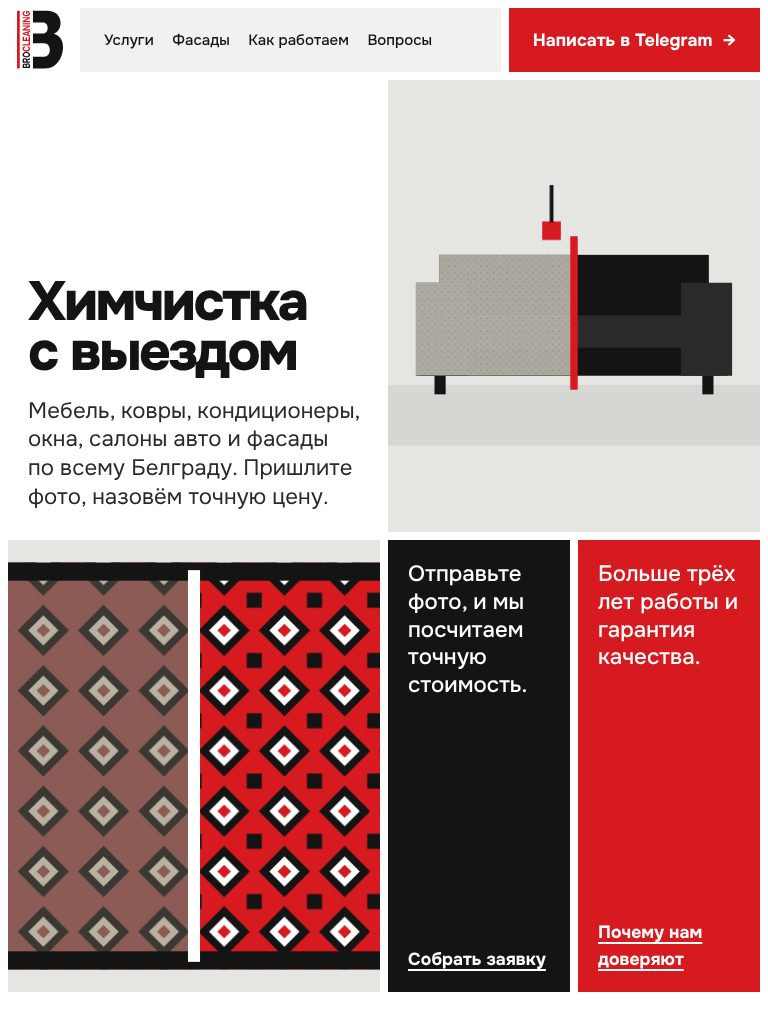
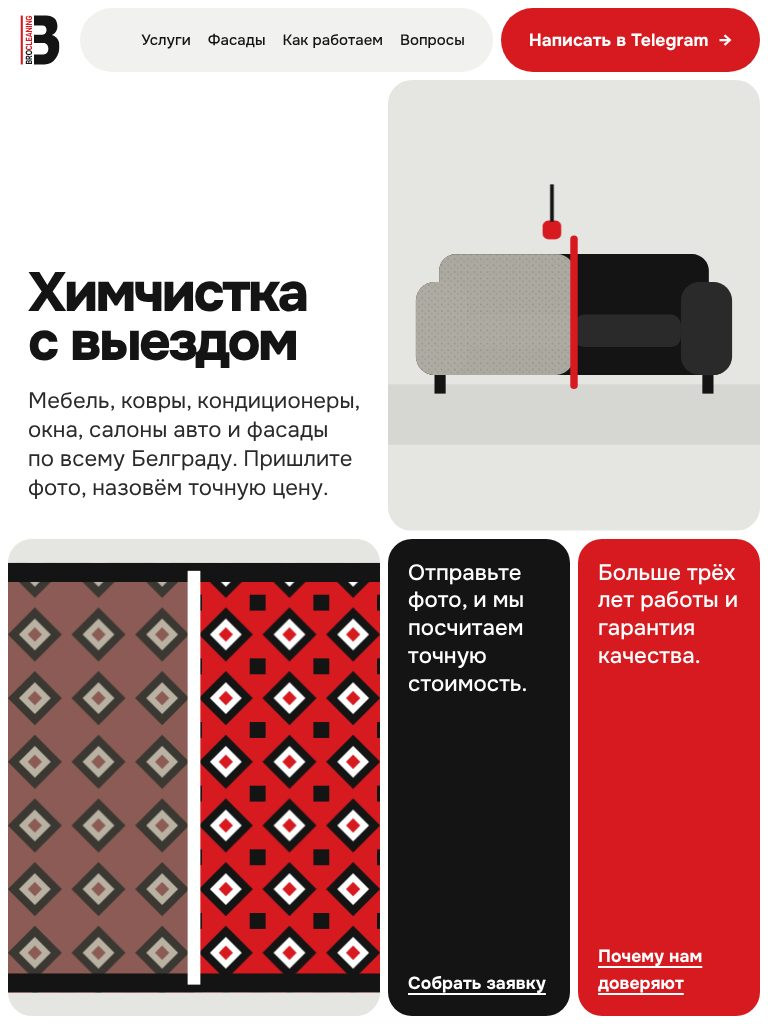
BroCleaning: stop hero clipping on short windows, round the design
The hero board no longer ties its rows to the window height, so the
headline fits on any screen; the nav sits at the right edge. Tiles,
sections and drawings get rounded corners and buttons become pills.

Claude-Session: https://claude.ai/code/session_01UWZxjZDZsRNAHBMSR73c6z

diff --git a/sites/brocleaning/index.html b/sites/brocleaning/index.html
@@ -34,6 +34,8 @@
   --axis:42vw;
   --section:clamp(96px,12vw,200px);
   --ease:cubic-bezier(.2,.7,.1,1);
+  --r:24px;
+  --r-s:14px;
 }
 *,*::before,*::after{box-sizing:border-box}
 html{-webkit-text-size-adjust:100%;scroll-behavior:smooth}
@@ -49,7 +51,7 @@ button{font:inherit;color:inherit}
 .skip:focus{left:var(--m);top:var(--m);z-index:50;background:var(--ink);color:#fff;padding:12px 16px}
 
 /* ---------- buttons: one shape, square ---------- */
-.btn{display:inline-flex;align-items:center;justify-content:center;gap:.6em;min-height:56px;padding:0 24px;border:0;border-radius:0;background:var(--red);color:var(--red-ink);font-weight:700;font-size:var(--step-body);text-decoration:none;cursor:pointer;transition:transform .18s var(--ease),background-color .18s}
+.btn{display:inline-flex;align-items:center;justify-content:center;gap:.6em;min-height:56px;padding:0 24px;border:0;border-radius:999px;background:var(--red);color:var(--red-ink);font-weight:700;font-size:var(--step-body);text-decoration:none;cursor:pointer;transition:transform .18s var(--ease),background-color .18s}
 .btn:hover{background:#b8141a}
 .btn:active{transform:scale(.97)}
 .btn--ink{background:var(--ink);color:#fff}
@@ -61,27 +63,29 @@ button{font:inherit;color:inherit}
 
 /* ---------- axis heading: the red bar of the logo ---------- */
 .axis-head{position:relative;margin-left:var(--axis);padding-left:28px;font-size:var(--step-head);font-weight:800;line-height:1;letter-spacing:-.03em;max-width:15ch}
-.axis-head::before{content:"";position:absolute;left:0;top:.08em;bottom:.04em;width:10px;background:var(--red);transform-origin:top;transition:transform .9s var(--ease)}
+.axis-head::before{content:"";position:absolute;left:0;top:.08em;bottom:.04em;width:10px;border-radius:5px;background:var(--red);transform-origin:top;transition:transform .9s var(--ease)}
 .axis-head .soft{color:var(--muted)}
 
 /* =============== HERO BOARD =============== */
-.board{display:grid;gap:var(--gap);padding:var(--gap);height:100svh;min-height:640px;max-height:1000px;grid-template-rows:64px 1fr 1fr;grid-template-columns:1fr 1fr}
+.board{display:grid;gap:var(--gap);padding:var(--gap);min-height:100svh;grid-template-rows:64px auto minmax(280px,1fr);grid-template-columns:1fr 1fr}
 .bar{grid-column:1/-1;display:grid;grid-template-columns:64px 1fr auto;gap:var(--gap)}
-.tile{position:relative;overflow:hidden;background:var(--tone-1)}
+.tile{position:relative;overflow:hidden;background:var(--tone-1);border-radius:var(--r)}
 .tile--ink{background:var(--ink);color:var(--on-ink)}
 .tile--red{background:var(--red);color:#fff}
 .logo-tile{display:grid;place-items:center;background:var(--paper);outline:0}
-.logo-tile svg{width:46px;height:auto}
-.nav{display:flex;align-items:center;gap:clamp(16px,2.4vw,40px);padding:0 24px 0 calc(50vw - 64px - 2*var(--gap) + clamp(20px,2.4vw,36px))}
+.logo-tile svg{width:46px;height:auto;max-height:52px}
+.nav{display:flex;align-items:center;justify-content:flex-end;gap:clamp(16px,2.2vw,36px);padding:0 28px}
 .nav a{white-space:nowrap;font-weight:500;text-decoration:none;font-size:var(--step-small);position:relative;padding:6px 0}
 .nav a::after{content:"";position:absolute;left:0;right:0;bottom:0;height:2px;background:var(--red);transform:scaleX(0);transform-origin:left;transition:transform .25s var(--ease)}
 .nav a:hover::after{transform:scaleX(1)}
-.bar .btn{min-height:64px}
-.name-tile{display:flex;flex-direction:column;justify-content:flex-end;padding:clamp(20px,2.4vw,36px);background:var(--paper);gap:20px}
-.name-tile h1{font-size:var(--step-display);font-weight:800;line-height:.9;letter-spacing:-.045em}
+.bar .btn{min-height:64px;padding:0 28px}
+.bar .tile{border-radius:999px}
+.logo-tile{border-radius:var(--r-s)!important}
+.name-tile{display:flex;flex-direction:column;justify-content:flex-end;padding:clamp(28px,3vw,48px) clamp(20px,2.4vw,36px);background:var(--paper);gap:20px;overflow:visible;min-height:min(44svh,460px)}
+.name-tile h1{font-size:min(var(--step-display),14svh);font-weight:800;line-height:.9;letter-spacing:-.045em}
 .name-tile p{font-size:var(--step-lead);line-height:1.3;max-width:30ch;color:var(--ink-2)}
 .pic{width:100%;height:100%}
-.pic svg{width:100%;height:100%}
+.pic svg{position:absolute;inset:0;width:100%;height:100%}
 .split{display:grid;grid-template-columns:1fr 1fr;gap:var(--gap)}
 .split .tile{padding:clamp(20px,2.2vw,32px);display:flex;flex-direction:column;justify-content:space-between;gap:16px}
 .split .tile p{font-size:var(--step-lead);line-height:1.25;font-weight:500;max-width:18ch}
@@ -105,7 +109,7 @@ button{font:inherit;color:inherit}
 .services-intro{margin:28px 0 0 calc(var(--axis) - var(--m) + 28px);max-width:44ch;color:var(--ink-2)}
 .services-body{display:grid;grid-template-columns:200px 1fr;gap:40px;margin-top:56px}
 .tabs{display:flex;flex-direction:column;gap:6px;position:sticky;top:16px;align-self:start}
-.tab{display:flex;flex-direction:column;justify-content:center;min-height:64px;padding:10px 16px;background:var(--tone-1);text-decoration:none;border:0;text-align:left;cursor:pointer;transition:background-color .18s,transform .18s var(--ease)}
+.tab{border-radius:var(--r-s);display:flex;flex-direction:column;justify-content:center;min-height:64px;padding:10px 16px;background:var(--tone-1);text-decoration:none;border:0;text-align:left;cursor:pointer;transition:background-color .18s,transform .18s var(--ease)}
 .tab:hover{background:var(--tone-2)}
 .tab:active{transform:scale(.98)}
 .tab b{font-size:var(--step-small);font-weight:700;line-height:1.2}
@@ -120,11 +124,11 @@ button{font:inherit;color:inherit}
 .panel-title{font-size:var(--step-lead);font-weight:700;margin:0 0 12px;line-height:1.2}
 .js .panel-title{position:absolute;left:-9999px}
 .js .panel[hidden]{display:none}
-.band{display:grid;grid-template-columns:minmax(150px,26%) 1fr auto;align-items:center;gap:24px;min-height:84px;padding:16px 16px 16px 24px;background:var(--tone-1);transition:background-color .2s}
+.band{border-radius:var(--r-s);display:grid;grid-template-columns:minmax(150px,26%) 1fr auto;align-items:center;gap:24px;min-height:84px;padding:16px 16px 16px 24px;background:var(--tone-1);transition:background-color .2s}
 .band:nth-child(even of .band){background:var(--tone-2)}
 .band h4{margin:0;font-size:var(--step-body);font-weight:700;line-height:1.25}
 .band p{font-size:var(--step-body);line-height:1.45;color:var(--ink-2);max-width:56ch}
-.pick{display:inline-flex;align-items:center;justify-content:center;min-height:48px;min-width:150px;padding:0 18px;border:0;background:var(--paper);font-weight:700;font-size:var(--step-small);cursor:pointer;transition:background-color .18s,color .18s,transform .15s var(--ease)}
+.pick{border-radius:999px;display:inline-flex;align-items:center;justify-content:center;min-height:48px;min-width:150px;padding:0 18px;border:0;background:var(--paper);font-weight:700;font-size:var(--step-small);cursor:pointer;transition:background-color .18s,color .18s,transform .15s var(--ease)}
 .pick:hover{background:var(--ink);color:#fff}
 .pick:active{transform:scale(.96)}
 .band.is-picked{background:var(--ink);color:#fff}
@@ -134,11 +138,11 @@ button{font:inherit;color:inherit}
 .js .nojs-hide{display:inline-flex}
 
 /* request composer (the live thing) */
-.composer{margin-top:var(--gap);display:grid;grid-template-columns:200px 1fr;gap:40px;background:var(--ink);color:#fff;padding:clamp(28px,3.4vw,56px) clamp(20px,3vw,48px)}
+.composer{border-radius:var(--r);margin-top:var(--gap);display:grid;grid-template-columns:200px 1fr;gap:40px;background:var(--ink);color:#fff;padding:clamp(28px,3.4vw,56px) clamp(20px,3vw,48px)}
 .composer h3{font-size:var(--step-lead);font-weight:800;line-height:1.3;letter-spacing:-.01em}
 .composer-main{display:grid;grid-template-columns:1fr minmax(260px,340px);gap:32px;align-items:start}
 .composer label{display:block;font-size:var(--step-small);color:var(--on-ink-muted);margin-bottom:8px}
-.composer textarea{width:100%;min-height:200px;resize:vertical;background:var(--ink-2);color:#fff;border:0;padding:16px;font:inherit;font-size:var(--step-body);line-height:1.5}
+.composer textarea{border-radius:var(--r-s);width:100%;min-height:200px;resize:vertical;background:var(--ink-2);color:#fff;border:0;padding:16px;font:inherit;font-size:var(--step-body);line-height:1.5}
 .composer textarea:focus-visible{outline:3px solid var(--red);outline-offset:0}
 .send{display:flex;flex-direction:column;gap:var(--gap)}
 .send .btn{justify-content:space-between;width:100%}
@@ -148,19 +152,19 @@ button{font:inherit;color:inherit}
 .count{font-variant-numeric:tabular-nums}
 
 /* sticky mini bar */
-.minibar{position:fixed;left:var(--gap);right:var(--gap);bottom:var(--gap);z-index:40;display:flex;align-items:center;justify-content:space-between;gap:16px;background:var(--ink);color:#fff;padding:10px 10px 10px 20px;transform:translateY(140%);transition:transform .35s var(--ease);box-shadow:0 10px 30px rgba(0,0,0,.25)} /* taste-skill-ignore: sticky bar floats */
+.minibar{border-radius:999px;position:fixed;left:var(--gap);right:var(--gap);bottom:var(--gap);z-index:40;display:flex;align-items:center;justify-content:space-between;gap:16px;background:var(--ink);color:#fff;padding:10px 10px 10px 20px;transform:translateY(140%);transition:transform .35s var(--ease);box-shadow:0 10px 30px rgba(0,0,0,.25)} /* taste-skill-ignore: sticky bar floats */
 .minibar.show{transform:none}
 .minibar span{font-size:var(--step-small);overflow:hidden;text-overflow:ellipsis;white-space:nowrap}
 .minibar .btn{min-height:48px;flex:none}
 
 /* =============== SHOWCASE: drone =============== */
-.drone{margin-top:var(--section);display:grid;grid-template-columns:1fr 1fr;min-height:88svh;background:var(--tone-1)}
+.drone{border-radius:var(--r);margin:var(--section) var(--gap) 0;overflow:hidden;display:grid;grid-template-columns:1fr 1fr;min-height:88svh;background:var(--tone-1)}
 .drone-pic{padding:40px;display:grid;place-items:center}
-.drone-pic .sq{width:100%;aspect-ratio:1;max-height:calc(88svh - 80px);max-width:calc(88svh - 80px)}
+.drone-pic .sq{border-radius:var(--r);overflow:hidden;width:100%;aspect-ratio:1;max-height:calc(88svh - 80px);max-width:calc(88svh - 80px)}
 .drone-text{display:flex;flex-direction:column;justify-content:space-between;gap:40px;padding:40px var(--m) 40px 0}
 .drone-tabs{display:flex;gap:28px;flex-wrap:wrap}
 .drone-tabs button{background:none;border:0;padding:6px 0;font-size:var(--step-body);font-weight:500;color:var(--muted);cursor:pointer;position:relative}
-.drone-tabs button::after{content:"";position:absolute;left:0;right:0;bottom:0;height:3px;background:var(--red);transform:scaleX(0);transform-origin:left;transition:transform .25s var(--ease)}
+.drone-tabs button::after{content:"";position:absolute;left:0;right:0;bottom:0;height:3px;border-radius:3px;background:var(--red);transform:scaleX(0);transform-origin:left;transition:transform .25s var(--ease)}
 .drone-tabs button[aria-pressed="true"]{color:var(--ink);font-weight:700}
 .drone-tabs button[aria-pressed="true"]::after{transform:scaleX(1)}
 .drone-tabs button:hover{color:var(--ink)}
@@ -169,7 +173,7 @@ button{font:inherit;color:inherit}
 .drone-copy p + p{margin-top:16px}
 .drone-note{color:var(--muted);font-size:var(--step-small)}
 .cells{display:grid;grid-template-columns:1fr 1fr;gap:var(--gap)}
-.cell{display:flex;align-items:center;justify-content:space-between;min-height:72px;padding:0 22px;text-decoration:none;font-weight:700;background:var(--ink);color:#fff;transition:background-color .18s,transform .15s var(--ease)}
+.cell{border-radius:999px;display:flex;align-items:center;justify-content:space-between;min-height:72px;padding:0 22px;text-decoration:none;font-weight:700;background:var(--ink);color:#fff;transition:background-color .18s,transform .15s var(--ease)}
 .cell:active{transform:scale(.98)}
 .cell:hover{background:#000}
 .cell--tone{background:var(--tone-3);color:var(--ink)}
@@ -188,7 +192,7 @@ button{font:inherit;color:inherit}
 .about-text strong{font-weight:800}
 
 /* =============== HOW: many into one =============== */
-.how{background:var(--ink);color:#fff;padding:var(--section) var(--m)}
+.how{border-radius:var(--r);margin:0 var(--gap);background:var(--ink);color:#fff;padding:var(--section) var(--m)}
 .how-top{display:grid;grid-template-columns:repeat(12,1fr);gap:24px}
 .how-top h2{grid-column:1/6;font-size:var(--step-head);font-weight:800;line-height:1;letter-spacing:-.03em}
 .how-top p{grid-column:6/11;align-self:end;color:var(--on-ink-muted);font-size:var(--step-body);max-width:44ch}
@@ -209,9 +213,9 @@ button{font:inherit;color:inherit}
 .qa p{grid-column:8/13;font-size:var(--step-body);line-height:1.55;max-width:42ch;padding-top:.3em}
 
 /* =============== CONTACT =============== */
-.contact{padding:var(--section) var(--m) 120px;display:grid;grid-template-columns:repeat(12,1fr);gap:24px;align-items:start;background:var(--tone-1)}
+.contact{border-radius:var(--r);margin:var(--gap);padding:var(--section) var(--m) 120px;display:grid;grid-template-columns:repeat(12,1fr);gap:24px;align-items:start;background:var(--tone-1)}
 .contact-say{grid-column:1/7;font-size:var(--step-say);line-height:1.3;font-weight:500;letter-spacing:-.015em}
-.contact-pic{grid-column:8/10;width:100%;max-width:170px;aspect-ratio:1;background:var(--paper)}
+.contact-pic{border-radius:var(--r-s);overflow:hidden;grid-column:8/10;width:100%;max-width:170px;aspect-ratio:1;background:var(--paper)}
 .contact-pic svg{width:100%;height:100%}
 .contact-links{grid-column:10/13}
 .contact-links h3{font-size:var(--step-body);font-weight:700;margin-bottom:20px}
@@ -220,7 +224,7 @@ button{font:inherit;color:inherit}
 .contact-links small{display:block;margin-top:14px;font-size:var(--step-small);color:var(--muted);line-height:1.45}
 
 /* =============== FOOTER =============== */
-.foot{background:var(--red);color:#fff;min-height:90svh;padding:40px var(--m) 28px;display:flex;flex-direction:column;justify-content:space-between;gap:48px}
+.foot{border-radius:var(--r);margin:0 var(--gap) var(--gap);background:var(--red);color:#fff;min-height:70svh;padding:40px var(--m) 28px;display:flex;flex-direction:column;justify-content:space-between;gap:48px}
 .foot-top{display:flex;justify-content:space-between;gap:24px;align-items:flex-start}
 .foot-notes{display:flex;gap:40px;flex-wrap:wrap;font-size:var(--step-small);line-height:1.45}
 .foot-notes b{display:block}
@@ -271,7 +275,7 @@ button{font:inherit;color:inherit}
   .facts{grid-column:1/13;flex-direction:row;flex-wrap:wrap;order:2}
   .qa p{grid-column:7/13}
   .contact-say{grid-column:1/8}
-  .contact-pic{grid-column:1/3;grid-row:2}
+  .contact-pic{border-radius:var(--r-s);overflow:hidden;grid-column:1/3;grid-row:2}
   .contact-links{grid-column:3/9;grid-row:2}
 }
 
@@ -283,15 +287,17 @@ button{font:inherit;color:inherit}
   .nav{display:none}
   .bar .btn{display:none}
   .menu-btn{display:flex;align-items:center;justify-content:center;background:var(--ink);color:#fff;border:0;font-weight:700;font-size:var(--step-small);cursor:pointer;width:100%}
-  .bar .call-mini{display:flex;align-items:center;padding-left:16px;font-weight:700;text-decoration:none;background:var(--tone-1);font-size:var(--step-body)}
-  .nav.open{display:flex;position:fixed;inset:68px 6px auto 6px;z-index:60;flex-direction:column;align-items:stretch;gap:0;padding:8px;background:var(--ink);box-shadow:0 14px 40px rgba(0,0,0,.3)} /* taste-skill-ignore: open menu floats */
+  .bar .call-mini{display:flex;align-items:center;padding-left:16px;font-weight:700;text-decoration:none;background:var(--tone-1);font-size:var(--step-body);border-radius:var(--r-s)}
+  .nav.open{border-radius:var(--r);display:flex;position:fixed;inset:68px 6px auto 6px;z-index:60;flex-direction:column;align-items:stretch;gap:0;padding:8px;background:var(--ink);box-shadow:0 14px 40px rgba(0,0,0,.3)} /* taste-skill-ignore: open menu floats */
   .nav.open a{color:#fff;padding:16px 12px;font-size:18px}
   .name-tile{min-height:0;padding-top:56px}
+  .bar .tile{border-radius:var(--r-s)}
+  .menu-btn{border-radius:var(--r-s)}
   .name-tile h1{font-size:clamp(2.75rem,13.4vw,4.5rem)}
   .board .pic{aspect-ratio:4/3}
   .board > .pic-b{order:6}
   .split{grid-template-columns:1fr 1fr}
-  .split .tile{aspect-ratio:1;padding:16px}
+  .split .tile{min-height:min(46vw,220px);padding:18px}
   .split .tile p{font-size:var(--step-body)}
   .split .tile a{font-size:var(--step-small)}
   .axis-head{padding-left:22px;max-width:none}
@@ -305,10 +311,10 @@ button{font:inherit;color:inherit}
   .tab--new{grid-column:1/-1}
   .band{grid-template-columns:1fr;grid-template-areas:"t" "p" "b";gap:8px;padding:16px}
   .pick{width:100%;margin-top:6px}
-  .composer{grid-template-columns:1fr;margin-inline:calc(-1 * var(--m))}
+  .composer{grid-template-columns:1fr;margin-inline:calc(var(--gap) - var(--m))}
   .drone{grid-template-columns:1fr;min-height:0}
   .drone-pic{padding:16px}
-  .drone-pic .sq{max-width:none;max-height:none}
+  .drone-pic .sq{border-radius:var(--r);overflow:hidden;max-width:none;max-height:none}
   .drone-text{padding:8px 16px 16px}
   .drone-tabs{gap:20px}
   .drone-tabs button{font-size:var(--step-body)}
@@ -332,7 +338,7 @@ button{font:inherit;color:inherit}
   .qa p{margin-top:12px}
   .contact{display:grid;grid-template-columns:96px 1fr;gap:16px}
   .contact-say{grid-column:1/-1;font-size:var(--step-lead)}
-  .contact-pic{grid-column:1;grid-row:2;width:96px}
+  .contact-pic{border-radius:var(--r-s);overflow:hidden;grid-column:1;grid-row:2;width:96px}
   .contact-links{grid-column:2;grid-row:2}
   .foot{min-height:80svh}
   .foot-top{flex-direction:column}
@@ -349,7 +355,7 @@ button{font:inherit;color:inherit}
 <!-- ========= drawings: one flat language, brand colours, a cleaning pass on each ========= -->
 <svg width="0" height="0" style="position:absolute" aria-hidden="true">
   <defs>
-    <clipPath id="sofa-left"><rect x="110" y="190" width="290" height="190"/><rect x="60" y="250" width="340" height="200"/></clipPath>
+    <clipPath id="sofa-left"><rect x="110" y="190" width="290" height="190" rx="36"/><rect x="60" y="250" width="340" height="200" rx="40"/></clipPath>
     <pattern id="grime" width="14" height="14" patternUnits="userSpaceOnUse">
       <rect width="14" height="14" fill="#b9b6ad"/>
       <rect x="2" y="3" width="3" height="3" fill="#9d998e"/>
@@ -383,12 +389,12 @@ button{font:inherit;color:inherit}
     <rect x="-400" y="-400" width="1600" height="1400" fill="#e5e5e2"/>
     <rect x="-400" y="470" width="1600" height="400" fill="#d6d6d2"/>
     <g>
-      <rect x="110" y="190" width="580" height="190" fill="#141414"/>
-      <rect x="70" y="300" width="660" height="150" fill="#141414"/>
-      <rect x="60" y="250" width="110" height="200" fill="#2a2a2a"/>
-      <rect x="630" y="250" width="110" height="200" fill="#2a2a2a"/>
-      <rect x="170" y="320" width="230" height="70" fill="#2a2a2a"/>
-      <rect x="400" y="320" width="230" height="70" fill="#2a2a2a"/>
+      <rect x="110" y="190" width="580" height="190" rx="36" fill="#141414"/>
+      <rect x="70" y="300" width="660" height="150" rx="28" fill="#141414"/>
+      <rect x="60" y="250" width="110" height="200" rx="40" fill="#2a2a2a"/>
+      <rect x="630" y="250" width="110" height="200" rx="40" fill="#2a2a2a"/>
+      <rect x="170" y="320" width="230" height="70" rx="22" fill="#2a2a2a"/>
+      <rect x="400" y="320" width="230" height="70" rx="22" fill="#2a2a2a"/>
       <rect x="100" y="450" width="24" height="40" fill="#141414"/><rect x="676" y="450" width="24" height="40" fill="#141414"/>
     </g>
     <!-- grime on the left half -->
@@ -396,9 +402,9 @@ button{font:inherit;color:inherit}
       <g clip-path="url(#sofa-left)"><rect x="60" y="190" width="340" height="260" fill="url(#grime)"/></g>
     </g>
     <!-- the pass -->
-    <rect x="392" y="150" width="16" height="330" fill="#d71920"/>
+    <rect x="392" y="150" width="16" height="330" rx="8" fill="#d71920"/>
     <g class="nozzle">
-      <rect x="380" y="118" width="40" height="40" fill="#d71920"/>
+      <rect x="380" y="118" width="40" height="40" rx="12" fill="#d71920"/>
       <rect x="396" y="40" width="8" height="80" fill="#141414"/>
     </g>
   </symbol>
@@ -406,31 +412,32 @@ button{font:inherit;color:inherit}
   <!-- Pirot kilim: half dirty, half clean -->
   <symbol id="kilim-pic" viewBox="0 0 800 600" preserveAspectRatio="xMidYMid slice">
     <rect width="800" height="600" fill="#e5e5e2"/>
-    <rect x="30" y="30" width="740" height="540" fill="url(#kilim)"/>
+    <clipPath id="rug"><rect x="30" y="30" width="740" height="540" rx="22"/></clipPath>
+    <g clip-path="url(#rug)"><rect x="30" y="30" width="740" height="540" fill="url(#kilim)"/>
     <rect x="30" y="30" width="370" height="540" fill="url(#kilim-dirty)"/>
-    <rect x="30" y="30" width="740" height="24" fill="#141414"/><rect x="30" y="546" width="740" height="24" fill="#141414"/>
+    <rect x="30" y="30" width="740" height="24" fill="#141414"/><rect x="30" y="546" width="740" height="24" fill="#141414"/></g>
     <rect x="392" y="40" width="16" height="520" fill="#ffffff"/>
   </symbol>
 
   <!-- a Novi Beograd block, a drone washing it -->
   <symbol id="facade" viewBox="0 0 600 600" preserveAspectRatio="xMidYMid slice">
     <rect width="600" height="600" fill="#e5e5e2"/>
-    <rect x="80" y="70" width="440" height="530" fill="#d6d6d2"/>
+    <rect x="80" y="70" width="440" height="560" rx="18" fill="#d6d6d2"/>
     <rect x="80" y="70" width="220" height="530" fill="url(#grime)"/>
     <g fill="#141414">
-      <rect x="110" y="100" width="70" height="44"/><rect x="210" y="100" width="70" height="44"/><rect x="320" y="100" width="70" height="44"/><rect x="420" y="100" width="70" height="44"/>
-      <rect x="110" y="180" width="70" height="44"/><rect x="210" y="180" width="70" height="44"/><rect x="320" y="180" width="70" height="44"/><rect x="420" y="180" width="70" height="44"/>
-      <rect x="110" y="260" width="70" height="44"/><rect x="210" y="260" width="70" height="44"/><rect x="320" y="260" width="70" height="44"/><rect x="420" y="260" width="70" height="44"/>
-      <rect x="110" y="340" width="70" height="44"/><rect x="210" y="340" width="70" height="44"/><rect x="320" y="340" width="70" height="44"/><rect x="420" y="340" width="70" height="44"/>
-      <rect x="110" y="420" width="70" height="44"/><rect x="210" y="420" width="70" height="44"/><rect x="320" y="420" width="70" height="44"/><rect x="420" y="420" width="70" height="44"/>
-      <rect x="110" y="500" width="70" height="44"/><rect x="210" y="500" width="70" height="44"/><rect x="320" y="500" width="70" height="44"/><rect x="420" y="500" width="70" height="44"/>
+      <rect x="110" y="100" width="70" height="44" rx="6"/><rect x="210" y="100" width="70" height="44" rx="6"/><rect x="320" y="100" width="70" height="44" rx="6"/><rect x="420" y="100" width="70" height="44" rx="6"/>
+      <rect x="110" y="180" width="70" height="44" rx="6"/><rect x="210" y="180" width="70" height="44" rx="6"/><rect x="320" y="180" width="70" height="44" rx="6"/><rect x="420" y="180" width="70" height="44" rx="6"/>
+      <rect x="110" y="260" width="70" height="44" rx="6"/><rect x="210" y="260" width="70" height="44" rx="6"/><rect x="320" y="260" width="70" height="44" rx="6"/><rect x="420" y="260" width="70" height="44" rx="6"/>
+      <rect x="110" y="340" width="70" height="44" rx="6"/><rect x="210" y="340" width="70" height="44" rx="6"/><rect x="320" y="340" width="70" height="44" rx="6"/><rect x="420" y="340" width="70" height="44" rx="6"/>
+      <rect x="110" y="420" width="70" height="44" rx="6"/><rect x="210" y="420" width="70" height="44" rx="6"/><rect x="320" y="420" width="70" height="44" rx="6"/><rect x="420" y="420" width="70" height="44" rx="6"/>
+      <rect x="110" y="500" width="70" height="44" rx="6"/><rect x="210" y="500" width="70" height="44" rx="6"/><rect x="320" y="500" width="70" height="44" rx="6"/><rect x="420" y="500" width="70" height="44" rx="6"/>
     </g>
     <g fill="#ffffff" opacity=".9">
       <rect x="300" y="70" width="220" height="10"/>
     </g>
     <g class="hovering">
       <polygon class="spray" points="250,150 300,150 300,330 250,330" fill="#ffffff" opacity=".6"/>
-      <rect x="222" y="118" width="56" height="26" fill="#d71920"/>
+      <rect x="222" y="118" width="56" height="26" rx="10" fill="#d71920"/>
       <rect x="196" y="110" width="20" height="6" fill="#141414"/><rect x="284" y="110" width="20" height="6" fill="#141414"/>
       <rect class="prop" x="180" y="102" width="52" height="5" fill="#141414"/>
       <rect class="prop" x="268" y="102" width="52" height="5" fill="#141414"/>
@@ -441,8 +448,8 @@ button{font:inherit;color:inherit}
   <!-- split AC unit, opened -->
   <symbol id="ac" viewBox="0 0 400 400" preserveAspectRatio="xMidYMid slice">
     <rect width="400" height="400" fill="#ffffff"/>
-    <rect x="40" y="120" width="320" height="110" fill="#e5e5e2"/>
-    <rect x="40" y="210" width="320" height="20" fill="#141414"/>
+    <rect x="40" y="120" width="320" height="110" rx="22" fill="#e5e5e2"/>
+    <rect x="40" y="210" width="320" height="20" rx="10" fill="#141414"/>
     <g fill="#141414"><rect x="70" y="140" width="6" height="56"/><rect x="90" y="140" width="6" height="56"/><rect x="110" y="140" width="6" height="56"/><rect x="130" y="140" width="6" height="56"/><rect x="150" y="140" width="6" height="56"/><rect x="170" y="140" width="6" height="56"/></g>
     <rect x="60" y="134" width="140" height="68" fill="url(#grime)" opacity=".85"/>
     <g fill="#d71920"><rect x="220" y="140" width="6" height="56"/><rect x="240" y="140" width="6" height="56"/><rect x="260" y="140" width="6" height="56"/><rect x="280" y="140" width="6" height="56"/><rect x="300" y="140" width="6" height="56"/><rect x="320" y="140" width="6" height="56"/></g>
